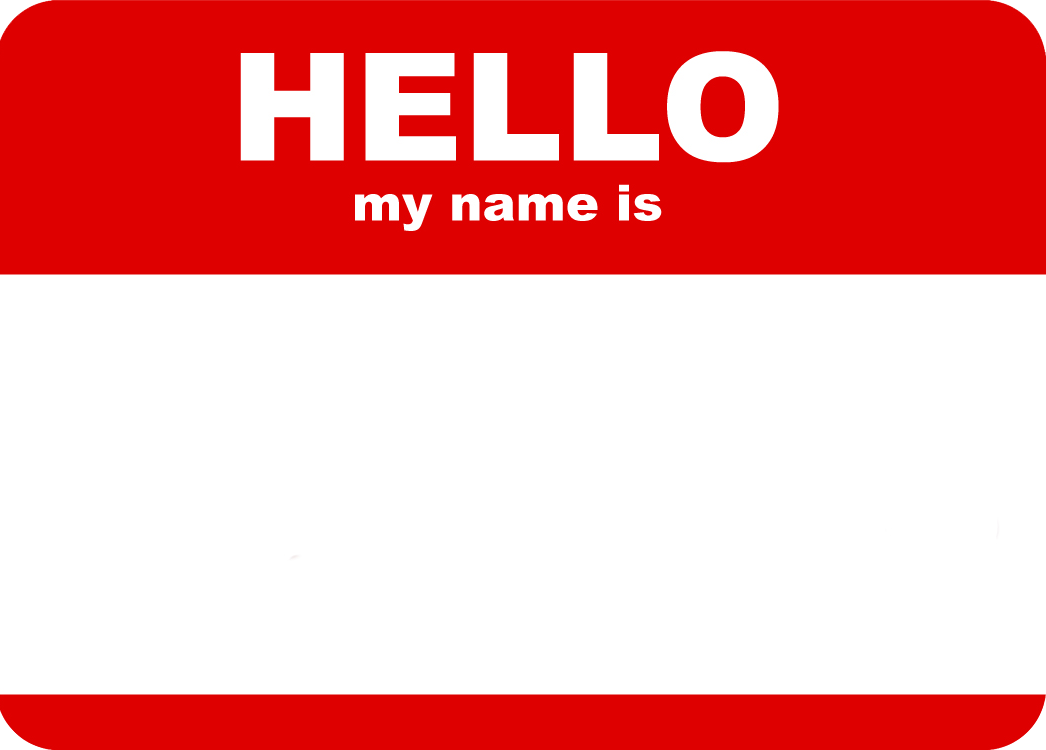
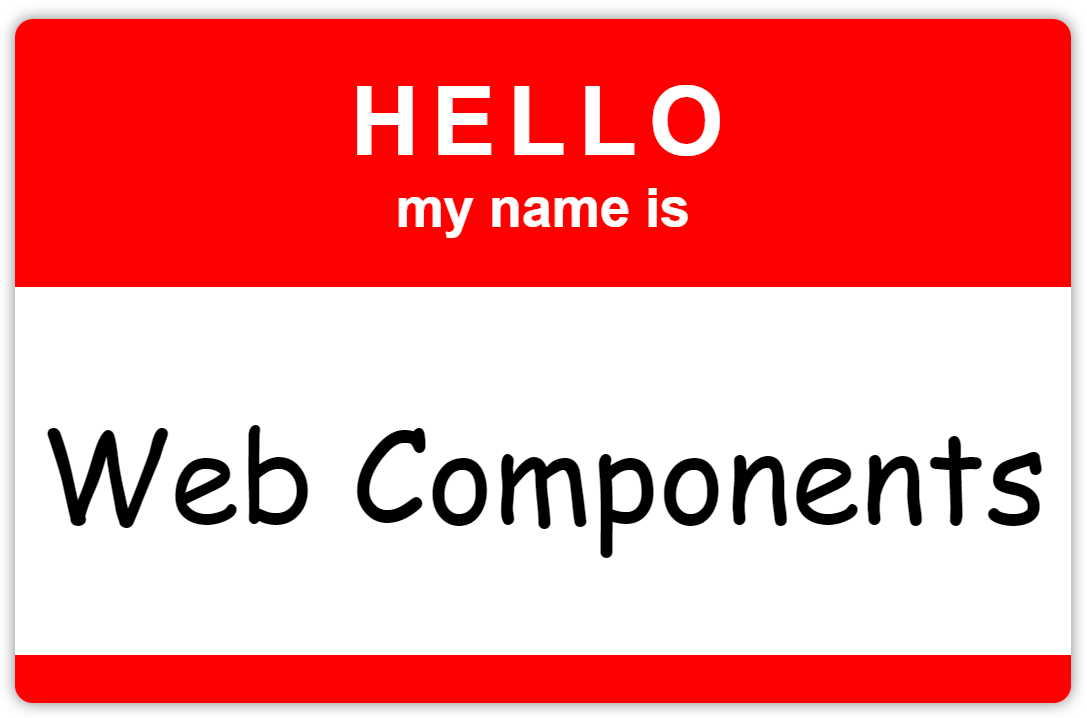
feat: add code and update example

diff --git a/index.js b/index.js
@@ -1,1 +1,100 @@
-// we'll put our web component code here soon...
+const render = x => `
+  <div part="header" class="header">
+    <h3 part="greeting">${x.greeting.toUpperCase()}</h3>
+    <h4 part="message">my name is</h4>
+  </div>
+
+  <div part="body" class="body">
+    <slot></slot>
+  </div>
+
+  <div part="footer" class="footer"></div>
+`;
+
+const styles = new CSSStyleSheet();
+styles.replaceSync(`
+  :host {
+    --default-color: red;
+    --default-radius: 6px;
+    --default-depth: 5px;
+
+    display: inline-block;
+    contain: content;
+    color: white;
+    background: var(--color, var(--default-color));
+    border-radius: var(--radius, var(--default-radius));
+    min-width: 325px;
+    text-align: center;
+    box-shadow: 0 0 var(--depth, var(--default-depth)) rgba(0,0,0,.5);
+  }
+
+  .header {
+    margin: 16px 0;
+    position: relative;
+  }
+
+  h3 {
+    font-weight: bold;
+    font-family: sans-serif;
+    letter-spacing: 4px;
+    font-size: 32px;
+    margin: 0;
+    padding: 0;
+  }
+
+  h4 {
+    font-family: sans-serif;
+    font-size: 18px;
+    margin: 0;
+    padding: 0;
+  }
+
+  .body {
+    background: white;
+    color: black;
+    padding: 32px 8px;
+    font-size: 42px;
+    font-family: cursive;
+  }
+
+  .footer {
+    height: 16px;
+    background: var(--color, var(--default-color));
+    border-radius: 0 0 var(--radius, var(--default-radius)) var(--radius, var(--default-radius));
+  }
+`);
+
+class NameTag extends HTMLElement {
+  static get observedAttributes() {
+    return ['greeting'];
+  }
+
+  constructor() {
+    super();
+    this.attachShadow({ mode: 'open' });
+    this.shadowRoot.adoptedStyleSheets = [
+      ...this.shadowRoot.adoptedStyleSheets,
+      styles
+    ];
+  }
+
+  get greeting() {
+    return this.getAttribute('greeting');
+  }
+
+  set greeting(value) {
+    this.setAttribute('greeting', value);
+  }
+
+  connectedCallback() {
+    if (!this.greeting) {
+      this.greeting = 'Hello';
+    }
+  }
+
+  attributeChangedCallback(name, oldValue, newValue) {
+    this.shadowRoot.innerHTML = render(this);
+  }
+}
+
+customElements.define('name-tag', NameTag);
